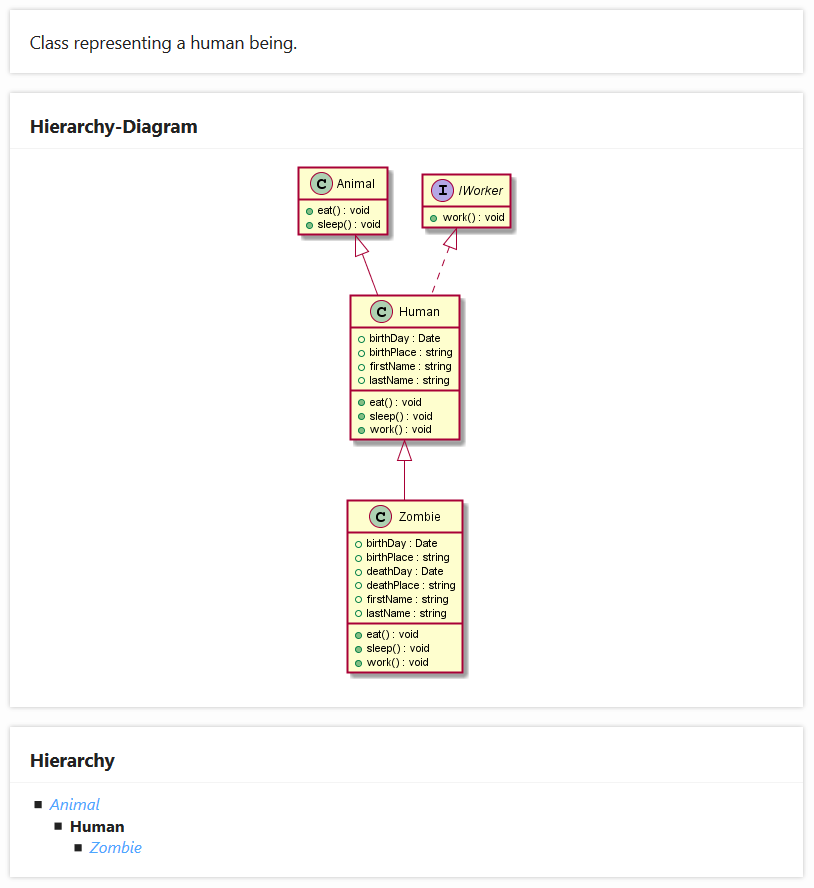
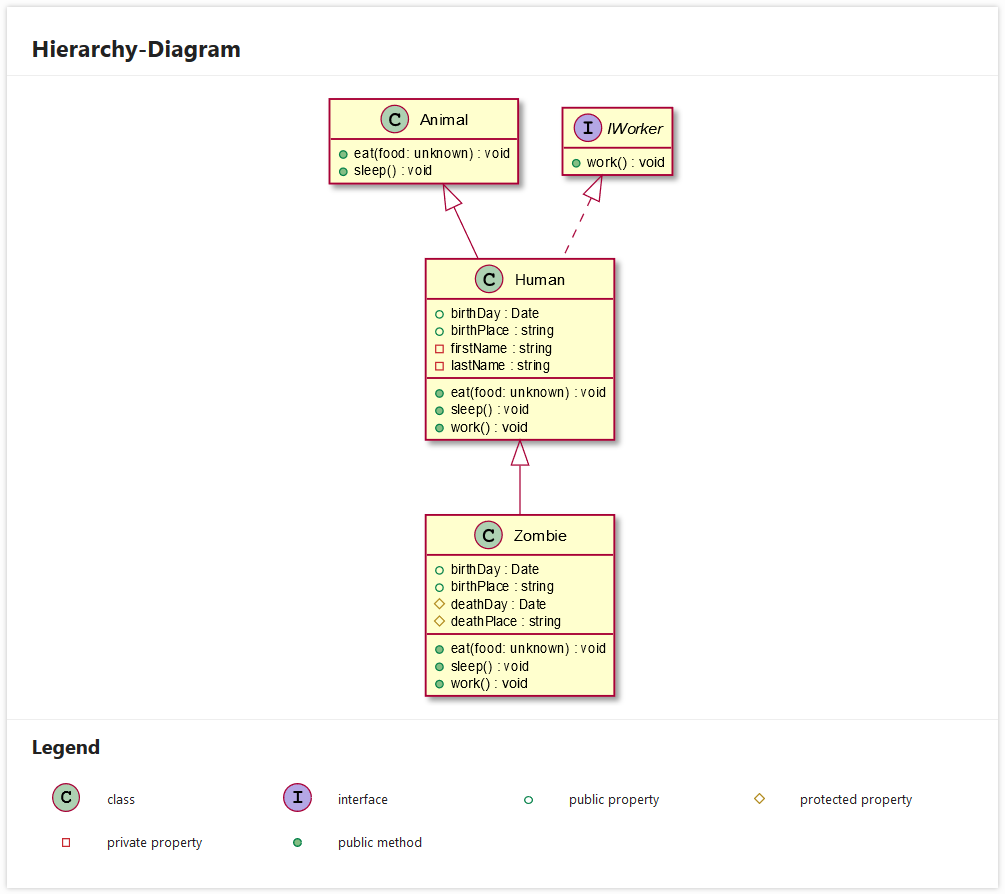
Update example image with legend

diff --git a/README.md b/README.md
@@ -9,13 +9,9 @@
 TypeDoc automatically detects plugins installed via npm. After installation TypeDoc can be used normally and
 this plugin is going to create a UML class diagram for every class and interface within your project.
 
-Example (default style):
+Example:
 
 ![Example default style](https://krisztianb.github.io/typedoc-umlclass/docs/human-default-layout.png)
-
-Example (styled using plugin options):
-
-![Example styled using plugin options](https://krisztianb.github.io/typedoc-umlclass/docs/human-custom-layout.png)
 
 ## Installation
 
